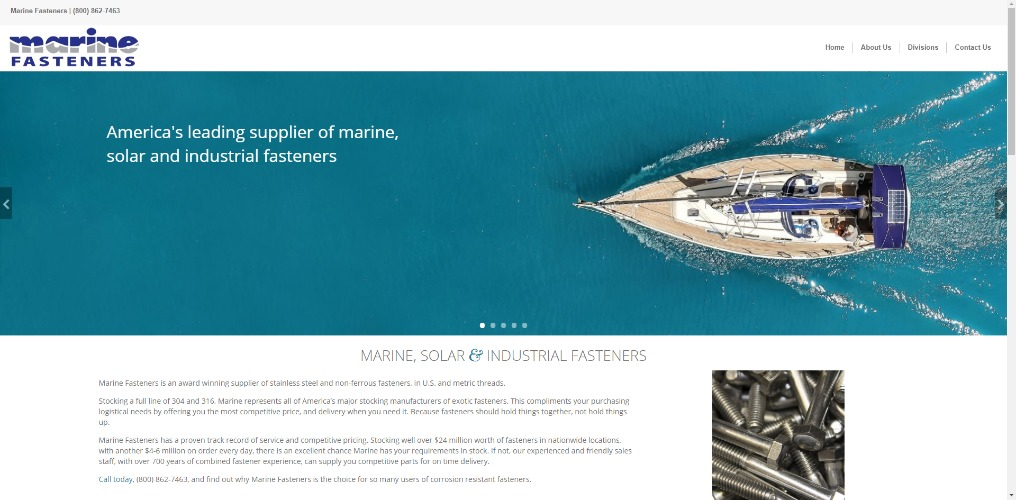
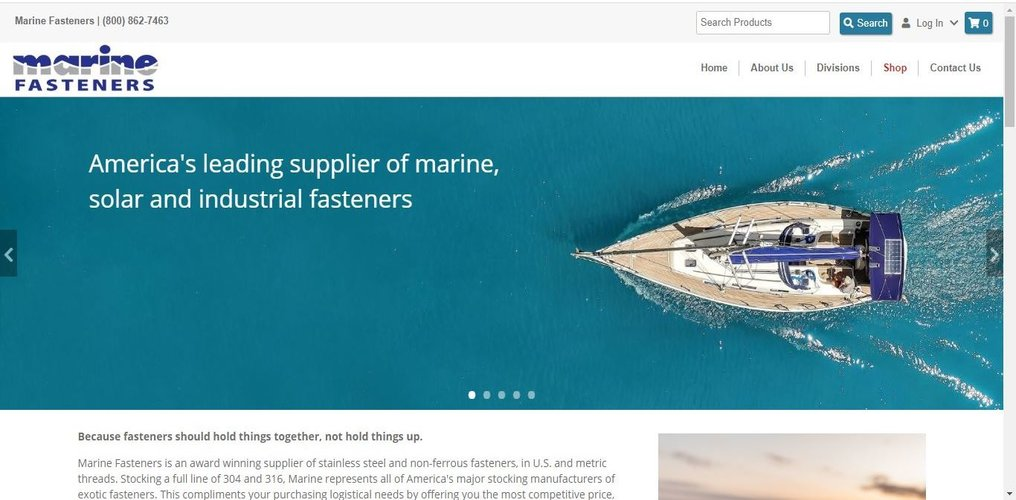
Start Marine project page

diff --git a/src/components/projects/marine.js b/src/components/projects/marine.js
@@ -1,0 +1,42 @@
+import React from 'react';
+import marine from '../../img/marine.jpg';
+
+
+class Marine extends React.Component {
+  render() {
+    return (
+      <div className="container">
+        <div className="row">
+          <div className="col-12">
+            <h1 className="hotpink">Marine Fasteners</h1>
+          </div>
+        </div>
+
+        <div className="row">
+          <div className="col-12 col-lg-6 col-xl-4 font-md">
+            <p className="font-lg">Marine Fasteners is a full e-commerce site built upon INxSQL's web templates. Marine was using a Wordpress site and wanted the same look for their new e-commerce site on a tight timeframe. I recreated the content and appearance of their old site, making the transition to e-commerce seamless for their users.</p>            
+            <p><i class="fas fa-tools" aria-hidden="true"></i> Toolbox:</p>
+              <ul>
+                <li>Sass</li>
+                <li>Bootstrap 3 Grid</li>
+                <li>JavaScript</li>
+                <li>JQuery</li>
+                <li>Razor</li>
+                <li>Visual Basic</li>
+                <li>Visual Studio</li>
+              </ul>
+          </div>
+          <div className="col-12 col-lg-6 col-xl-8">
+            <img src={marine} className="img-responsive screenshot" alt="Marine Homepage Screenshot" title="Marine Homepage Screenshot"/>
+          </div>
+        </div>
+
+        <div className="row">
+
+          </div>
+      </div>
+    )
+  }
+}
+
+export default Marine;

diff --git a/src/App.js b/src/App.js
@@ -8,6 +8,7 @@ import './App.scss';
 import Home from './components/home';
 import NavItems from './components/nav';
 import Inxsql from './components/projects/inxsql';
+import Marine from './components/projects/marine';
 
 function App() {
   return (
@@ -27,6 +28,7 @@ function App() {
       <Switch>
           <Route path="/" component={Home} exact />
           <Route path="/projects/inxsql" component={Inxsql} />
+          <Route path="/projects/marine" component={Marine} />
           <Route component={Error} />
       </Switch>
     </div>

diff --git a/src/components/projectCard.js b/src/components/projectCard.js
@@ -16,7 +16,7 @@ const myProjects = [
   },
   {
     name: 'Marine Fasteners',
-    link: 'https://www.marfas.com',
+    link: 'projects/marine',
     img: marine,
     desc: "An e-commerce site built upon INxSQL's web template."
   },
